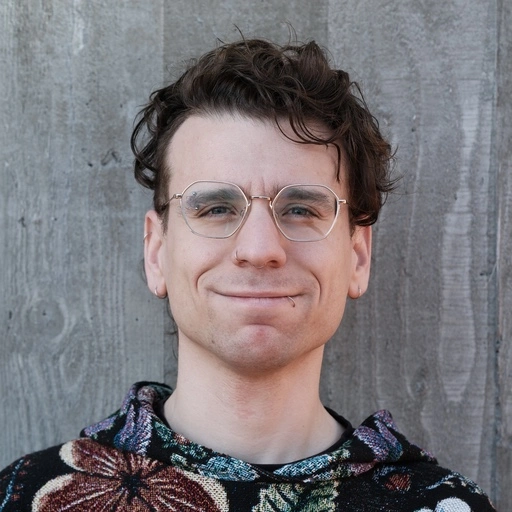
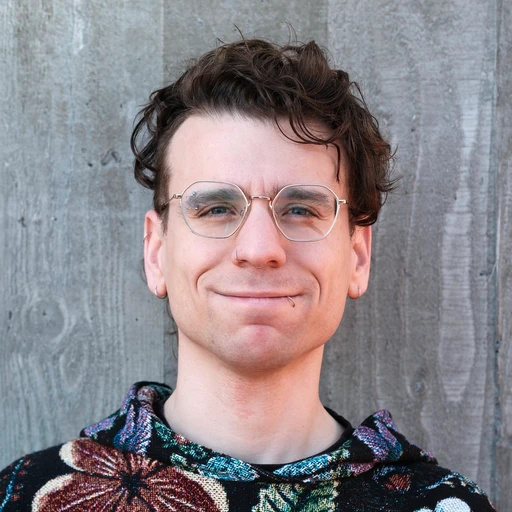
new pfp

diff --git a/themes/soldaini/layouts/partials/head.html b/themes/soldaini/layouts/partials/head.html
@@ -46,7 +46,7 @@
     <link rel="stylesheet" href="{{ $style.RelPermalink }}" integrity="{{ $style.Data.Integrity }}">
 
     {{ if .IsHome }}
-    <link rel="preload" as="image" type="image/webp" href="/personal-me/me-512.webp">
+    <link rel="preload" as="image" type="image/webp" href="/pfp/[email redacted]">
     {{ end }}
 
     {{ $faviconVersion := "20260425-favico" }}

diff --git a/themes/soldaini/layouts/shortcodes/avatar.html b/themes/soldaini/layouts/shortcodes/avatar.html
@@ -1,7 +1,7 @@
 <div id="avatar-container">
     <div id="front-avatar">
         <img src="pfp/[email redacted]"
-             srcset="personal-me/me-512.webp 512w, personal-me/me-1024.webp 1024w"
+             srcset="pfp/[email redacted] 512w, personal-me/me-1024.webp 1024w"
              sizes="256px"
              width="512" height="512"
              fetchpriority="high"